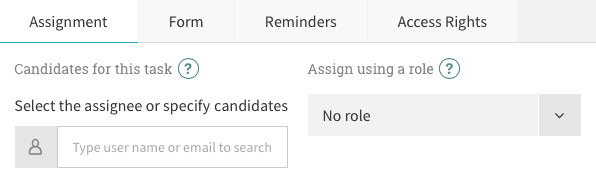
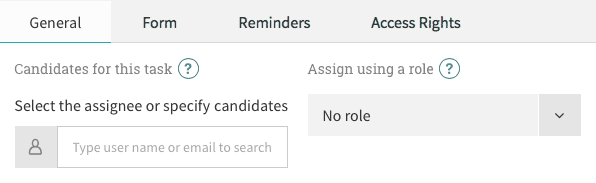
#61 Rename user task config ‘Assignment’ tab

diff --git a/docs/action-types.rst b/docs/action-types.rst
@@ -17,18 +17,19 @@ User task
    A user task in the process editor
 
 A user task means a user has to perform a task.
-In the :ref:`case <cases>`, a task will be created. In the configuration form, the following optional details can be specified.
+In the :ref:`case <cases>`, a task will be created.
+Use the configuration form to specify the following optional details.
 
-* *Assignment* - a task can be assigned to a user or a :ref:`process role <roles>`.
-* *Form* - a task can be given a form. To complete the task, the form has to be submitted.
+* *General* - assign a user or a :ref:`process role <roles>`.
+* *Form* - add a form, which means submitting the form to complete the task.
 * *Reminders* - task deadline notifications.
 * *Escalations* -  automatic task reassignment.
 * *Access Rights* - task permissions for users and groups.
 
-Assignment
-^^^^^^^^^^
+General
+^^^^^^^
 
-Use the assignment tab to specify the task’s default assignee or candidates.
+Use the *General* tab to specify the task’s default assignee or candidates.
 Candidates can be individual users or organisation groups.
 
 .. figure:: /_static/images/action-types/user-task-assignment.png

diff --git a/docs/process-builder/roles.rst b/docs/process-builder/roles.rst
@@ -57,4 +57,4 @@ select the role variable to add it to the form.
 Alternatively, you can first define the *Support engineer* role
 by adding a field with type *User* to the *Initial investigation* task’s form,
 and then select the *Support engineer* role
-on another user task’s *Assignment* configuration.
+on another user task’s *General* configuration.
